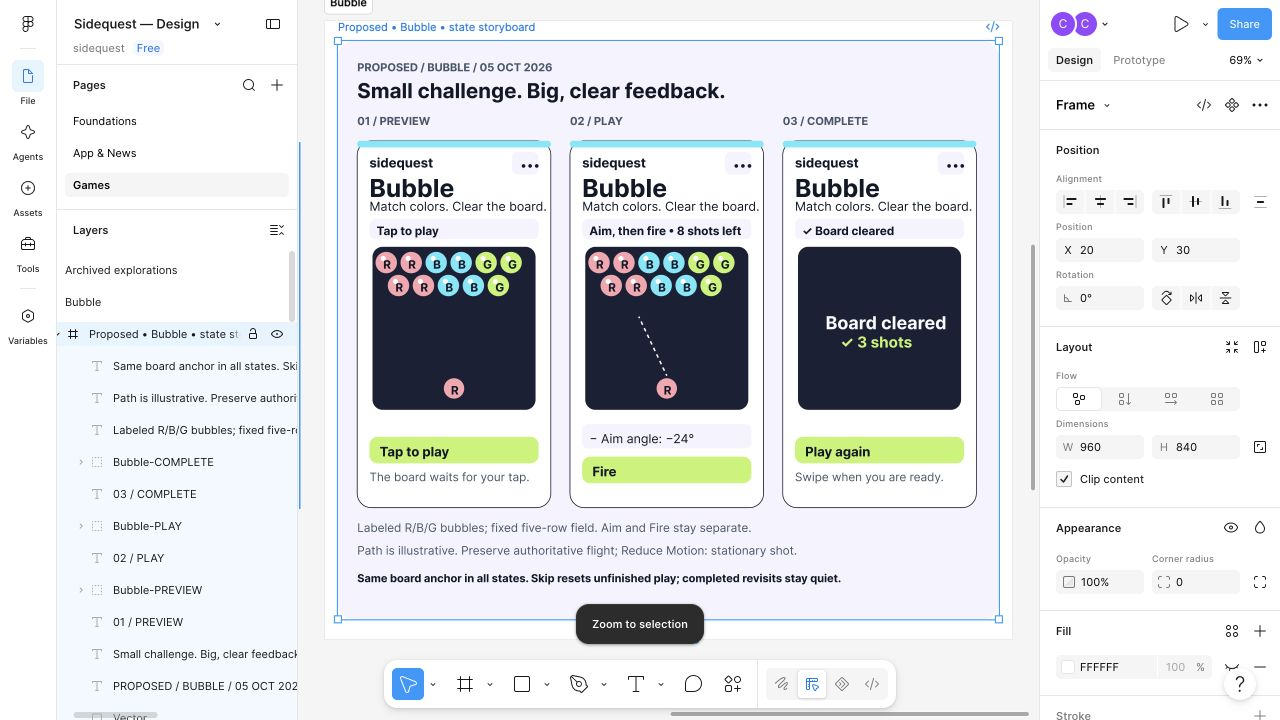
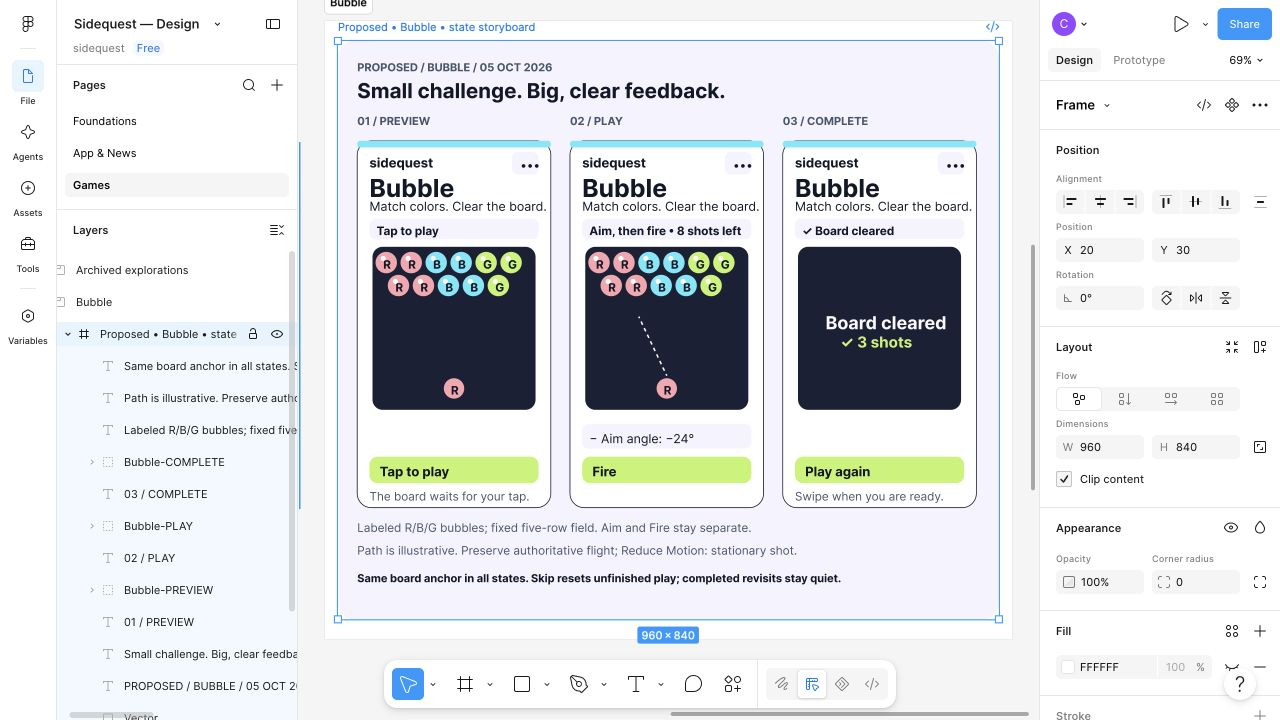
Keep Chess and Bubble proposal actions in stable slots

diff --git a/docs/design/PRIVATE_FIGMA.md b/docs/design/PRIVATE_FIGMA.md
@@ -14,8 +14,8 @@ Each game board contains named PREVIEW, PLAY, and COMPLETE groups inside an edit
 | App & News | [Reading, navigation, large text](https://www.figma.com/design/Ehy0Dmgc1CCV2iTRThwb49/Sidequest-%25E2%2580%2594-Design?node-id=2-856) | [News](figma-157/news.jpg) | [SVG](figma-157/news.svg) |
 | Games / Sudoku | [Three states](https://www.figma.com/design/Ehy0Dmgc1CCV2iTRThwb49/Sidequest-%25E2%2580%2594-Design?node-id=5-2) | [Sudoku](figma-157/sudoku.jpg) | [SVG](figma-157/sudoku.svg) |
 | Games / Memory | [Three states](https://www.figma.com/design/Ehy0Dmgc1CCV2iTRThwb49/Sidequest-%25E2%2580%2594-Design?node-id=2-265) | [Memory](figma-157/memory.jpg) | [SVG](figma-157/memory.svg) |
-| Games / Chess | [Three states](https://www.figma.com/design/Ehy0Dmgc1CCV2iTRThwb49/Sidequest-%25E2%2580%2594-Design?node-id=2-386) | [Chess](figma-157/chess.jpg) | [SVG](figma-157/chess.svg) |
-| Games / Bubble | [Three states](https://www.figma.com/design/Ehy0Dmgc1CCV2iTRThwb49/Sidequest-%25E2%2580%2594-Design?node-id=2-520) | [Bubble](figma-157/bubble.jpg) | [SVG](figma-157/bubble.svg) |
+| Games / Chess | [Three states](https://www.figma.com/design/Ehy0Dmgc1CCV2iTRThwb49/Sidequest-%25E2%2580%2594-Design?node-id=15-2) | [Chess](figma-157/chess.jpg) | [SVG](figma-157/chess.svg) |
+| Games / Bubble | [Three states](https://www.figma.com/design/Ehy0Dmgc1CCV2iTRThwb49/Sidequest-%25E2%2580%2594-Design?node-id=14-129) | [Bubble](figma-157/bubble.jpg) | [SVG](figma-157/bubble.svg) |
 
 ## Visual judgment
 
@@ -28,6 +28,8 @@ Chess coordinate and Bubble aim bars summarize existing controls. Their implemen
 ## Geometry and accessibility
 
 All three game states retain the same board anchor and status/control reservations. Sudoku cells are 80 points with 60×52 number actions; Memory tiles are 100×70; Chess squares are 75 in this reference. Shared primary buttons are 332×52. Preserve measured native geometry when implementing rather than forcing these illustrative dimensions into every viewport.
+
+Chess preview/start, Submit move, and completed Play again share logical bounds `x=24, y=631, width=332, height=52`; Bubble preview/start, Fire, and completed Play again share `x=24, y=620, width=332, height=52`. Their footer copy stays below the action. Completed Chess retains its disabled coordinate-row footprint at `y=568, height=48`; Bubble preserves its aiming-row reservation. These reference bounds are identical across each game's three states and exceed the 44-point minimum.
 
 The Foundations board annotates the existing 375×579-point pocket card viewport. At smaller sizes, retain the fixed game footprint and allow inner scrolling for overflowing text/controls. At large Dynamic Type, grow text reservations, keep the existing two-column Memory layout and Chess coordinate alternatives, and allow article scrolling. The News board includes a larger-type example; the four game boards do not claim complete large-type responsive layouts. Maintain edge paging and the accessible navigation menu. Check dark/increased-contrast variants and preserve textual/symbolic alternatives to color. The dark Memory sample communicates palette only, not all twelve cards or a full gameplay screen.
 
@@ -42,6 +44,8 @@ Reduce Motion uses immediate state changes and static outlines/results, with the
 Reused [primary-source baseline research](../research/mvp-design.md) and refreshed Apple's official guidance before drawing: [Motion](https://developer.apple.com/design/human-interface-guidelines/motion), [Buttons](https://developer.apple.com/design/human-interface-guidelines/buttons), and [Accessibility](https://developer.apple.com/design/human-interface-guidelines/accessibility), with readable official DocC JSON. Apple supports purposeful, brief, cancellable motion, optional motion alternatives, recognizable actions, and accessible targets/text. The palette, hierarchy, reference dimensions, and timing above are design judgments; they are not prescribed platform values or proof of greater enjoyment.
 
 Actual browser screenshots were visually inspected for all six boards, including a cleaned serif news layout and noncolor Sudoku outline. UI inspection confirmed named editable text/group/vector layers, correct page/section placement, and retained containers. SVG XML, local documentation links, and Git whitespace checks passed before the documentation commit. No application source, native build/test, simulator, CI runner, or release was run by this design agent. No physical-device accessibility, animation smoothness, prototype interaction, or enjoyment result is established. Independent repository review remains required.
+
+Independent review round 1 found shifting Chess/Bubble primary actions. The design author corrected their SVG geometry; Root applied the two corrected frames through the private browser UI and captured the replacement screenshots. Source-coordinate checks establish identical primary-action bounds across each game's three states, with preview status copy preserved. Both replacement screenshots were inspected for aligned actions and retained section placement. This verifies the static proposal only, not native layout execution.
 
 ![Actual proposed Sudoku board in private Figma](figma-157/sudoku.jpg)
 
